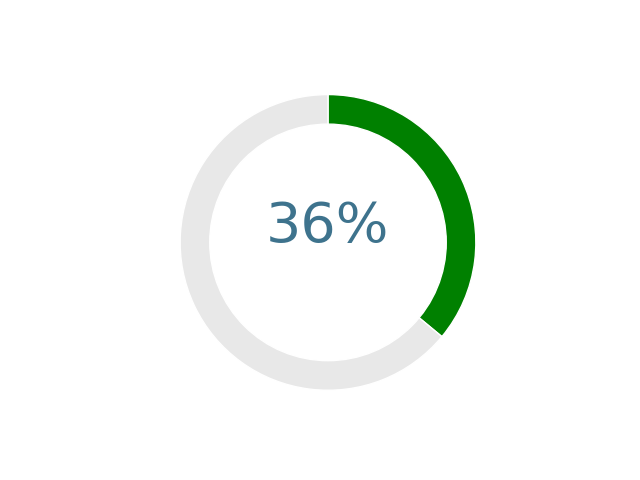
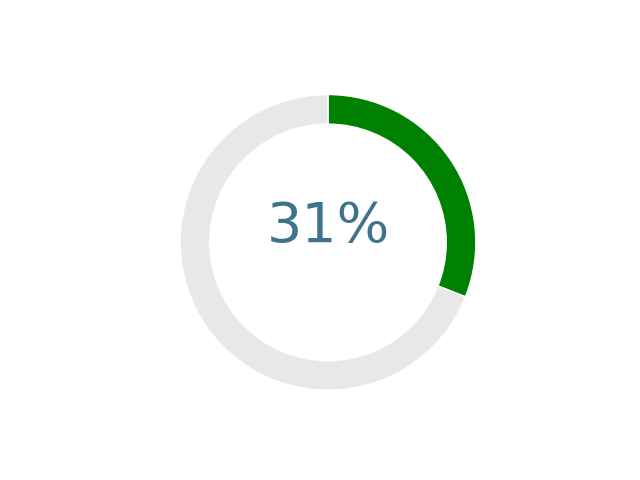
Update sleep donut for pdf

Changed region(s): [[0.4375, 0.4062, 0.625, 0.5], [0.6562, 0.5938, 0.7188, 0.6875]]

diff --git a/automatic_reports/plot_images.py b/automatic_reports/plot_images.py
@@ -129,28 +129,31 @@ def plot_sleep(sleep_dict, path_save):
         os.remove(image_path)
 
     if isinstance(sleep_dict["recorded_time"], str) == False:
-        score   = sleep_dict["score"]
-        quality = sleep_dict["quality"]
-        deep    = sleep_dict["deep"]/sleep_dict["recorded_time"]
-        light   = sleep_dict["light"]/sleep_dict["recorded_time"]
-        rem     = sleep_dict["rem"]/sleep_dict["recorded_time"]
-        awake   = sleep_dict["awake"]/sleep_dict["recorded_time"]
-    
-        size_of_groups=[deep, light, rem, awake]
         plt.figure(figsize=(5,5))
-        plt.pie(size_of_groups, 
-                colors = ['#044A9A', '#1878CF', '#9D0FB1', '#EB79D2'], 
-                startangle = 90,
-                counterclock = False,
-                wedgeprops = {"linewidth": 1, "edgecolor": "white"},
-               )
-        
-        my_circle=plt.Circle( (0,0), 0.9, color="white")
-        p=plt.gcf()
-        p.gca().add_artist(my_circle)
-        plt.text(0, 0, (str(score) + '/100'), fontsize=30, color= BLUE,  horizontalalignment = "center")
-        plt.text(0, -.35, 'Quality:', fontsize=20, color=GREY,  horizontalalignment = "center")
-        plt.text(0, -.60, quality, fontsize=20, color=GREY,  horizontalalignment = "center")
+        if sleep_dict["recorded_time"] > 0:
+            score   = sleep_dict["score"]
+            quality = sleep_dict["quality"]
+            deep    = sleep_dict["deep"]/sleep_dict["recorded_time"]
+            light   = sleep_dict["light"]/sleep_dict["recorded_time"]
+            rem     = sleep_dict["rem"]/sleep_dict["recorded_time"]
+            awake   = sleep_dict["awake"]/sleep_dict["recorded_time"]
+
+            
+            size_of_groups=[deep, light, rem, awake]
+            
+            plt.pie(size_of_groups, 
+                    colors = ['#044A9A', '#1878CF', '#9D0FB1', '#EB79D2'], 
+                    startangle = 90,
+                    counterclock = False,
+                    wedgeprops = {"linewidth": 1, "edgecolor": "white"},
+                )
+            
+            my_circle=plt.Circle( (0,0), 0.9, color="white")
+            p=plt.gcf()
+            p.gca().add_artist(my_circle)
+            plt.text(0, 0, (str(score) + '/100'), fontsize=30, color= BLUE,  horizontalalignment = "center")
+            plt.text(0, -.35, 'Quality:', fontsize=20, color=GREY,  horizontalalignment = "center")
+            plt.text(0, -.60, quality, fontsize=20, color=GREY,  horizontalalignment = "center")
         plt.savefig(image_path, transparent=True)
     
 # --- Stress ---

diff --git a/automatic_reports/api2_get_garmin_data.py b/automatic_reports/api2_get_garmin_data.py
@@ -375,21 +375,23 @@ def init_sleep_dict_tamplate():
     return output
 
 def convert_dict_to_df(signal_data, start_time) -> pd.DataFrame:
-    start_time = datetime.strptime(start_time, '%Y-%m-%dT%H:%M:%S')
-    output = pd.DataFrame.from_dict(signal_data, orient='index', columns=['values'])
+    output = []
+    if len(signal_data) > 0:
+        output = pd.DataFrame.from_dict(signal_data, orient='index', columns=['values'])
 
-    # Get the offsets
-    offsets = output.index
-    # Add times column to the dataframe
-    output['times'] = np.nan
-    # Reset the index
-    output = output.reset_index(drop = True)
+        start_time = datetime.strptime(start_time, '%Y-%m-%dT%H:%M:%S')
+        # Get the offsets
+        offsets = output.index
+        # Add times column to the dataframe
+        output['times'] = np.nan
+        # Reset the index
+        output = output.reset_index(drop = True)
 
-    for i in range(len(offsets)):
-        offset = timedelta(seconds = int(offsets[i]))
-        output.loc[i, 'times'] = start_time + offset
-    output.reset_index(drop=True)
-    
+        for i in range(len(offsets)):
+            offset = timedelta(seconds = int(offsets[i]))
+            output.loc[i, 'times'] = start_time + offset
+        output.reset_index(drop=True)
+        
     return copy.deepcopy(output)
 
 def data_per_min(input_df):
